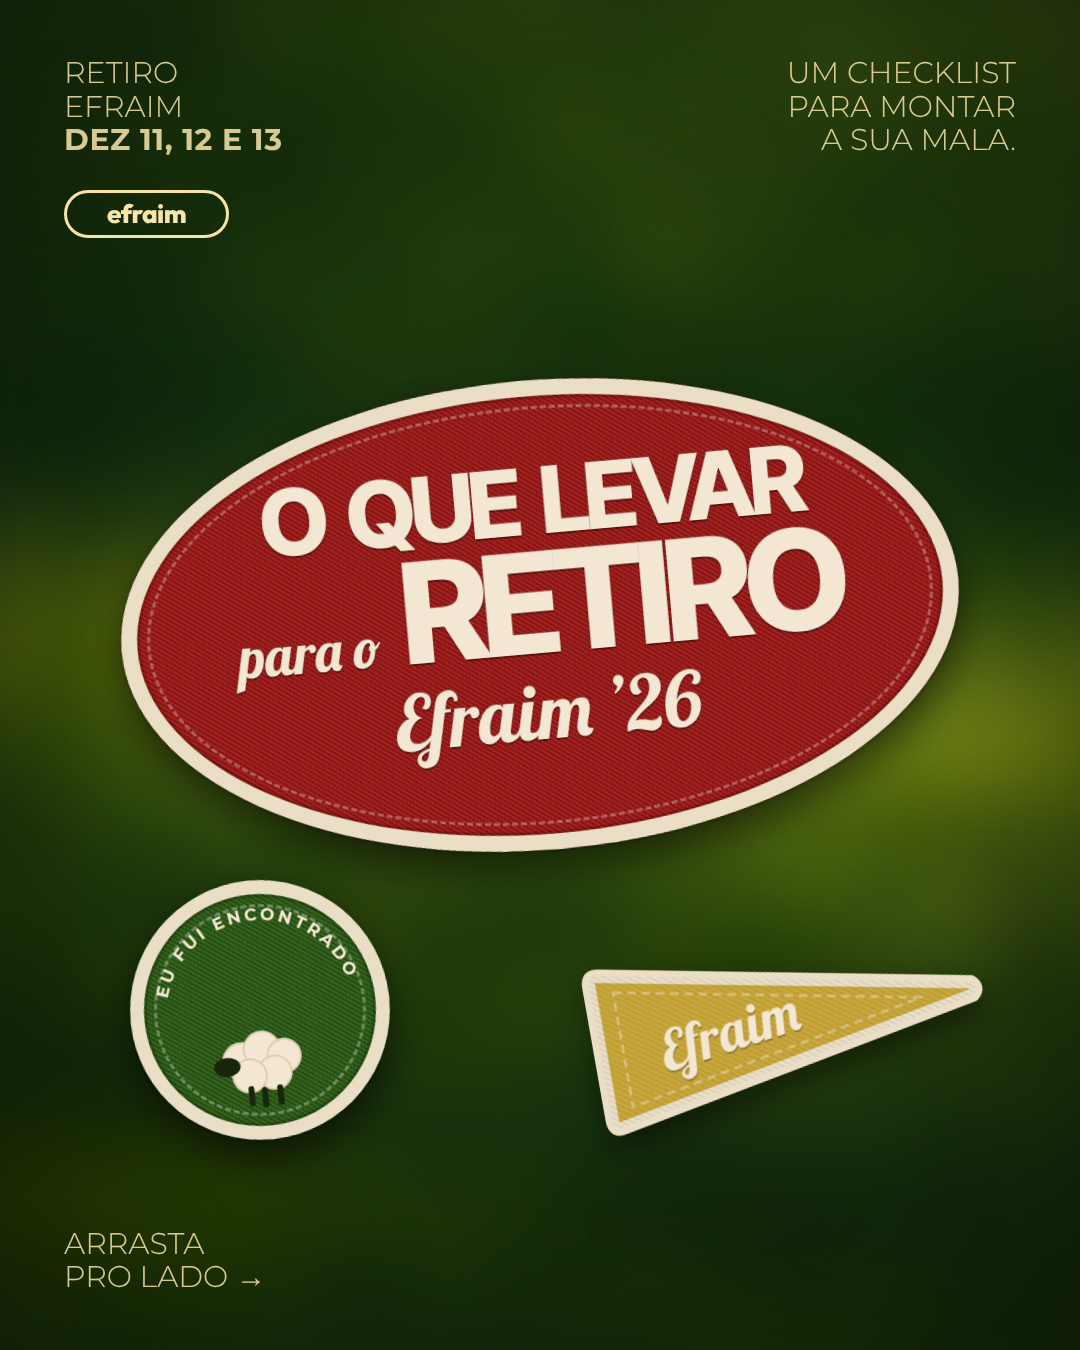
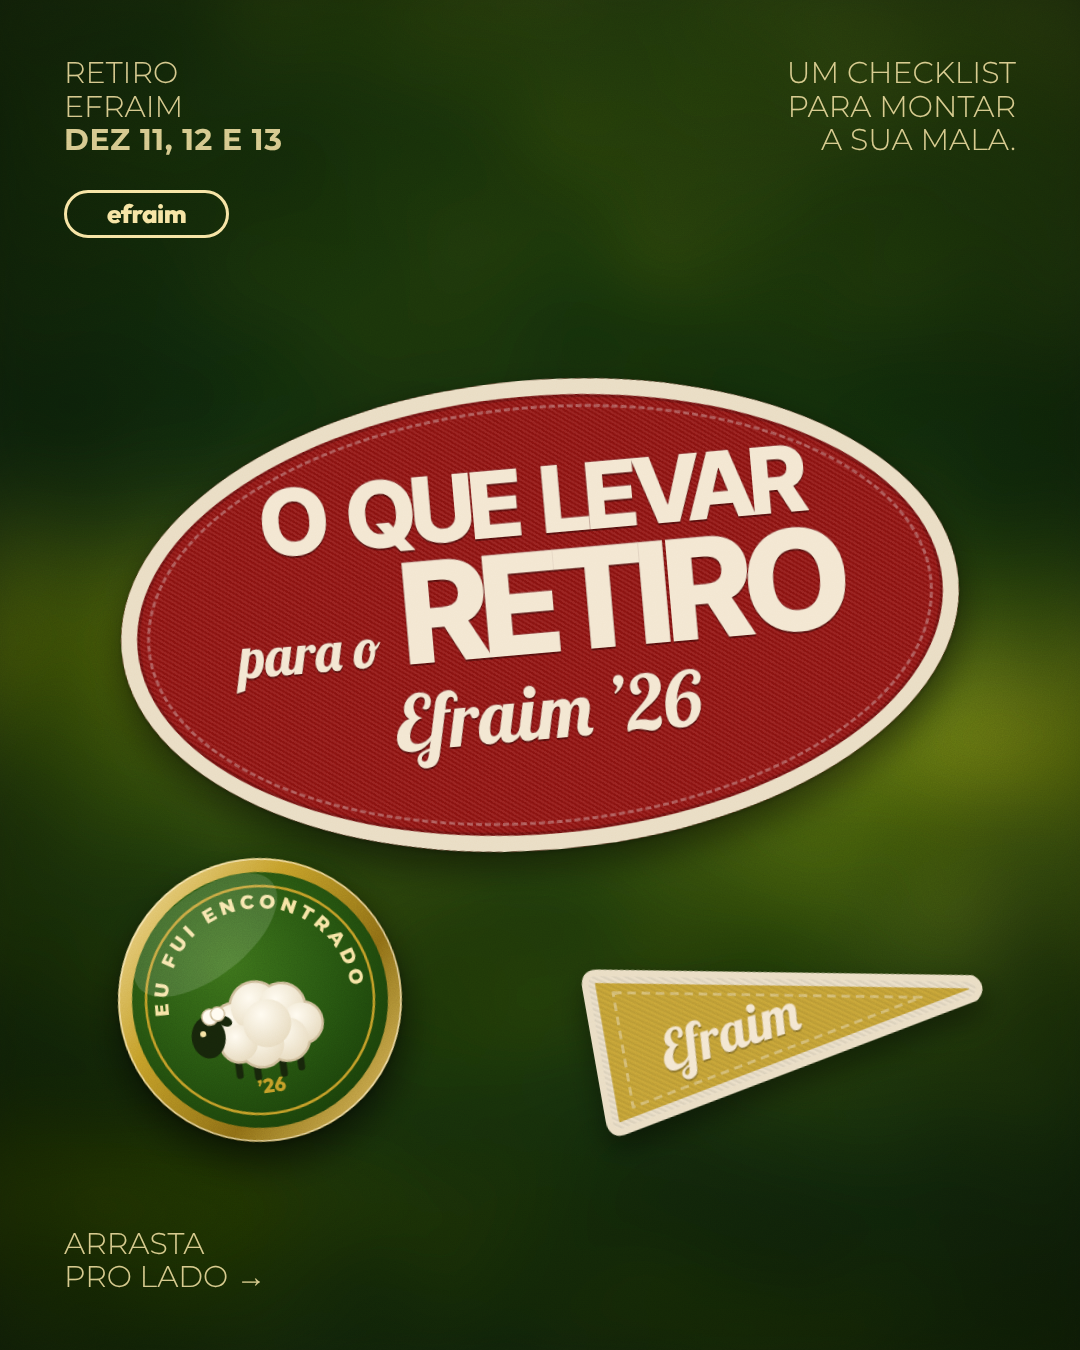
O que levar: broche Eu fui encontrado com ovelha proporcional na capa
Claude-Session: https://claude.ai/code/session_01LeUD47ZwT7dCEC6s1yGkTC

Changed region(s): [[0.0917, 0.6222, 0.3972, 0.8711]]

diff --git a/retiro-efraim/artes/carrossel-o-que-levar/01-capa.html b/retiro-efraim/artes/carrossel-o-que-levar/01-capa.html
@@ -11,11 +11,32 @@
       <span class="lob bord" style="font-size:76px;margin-top:-4px">Efraim ’26</span>
     </div>
   </div>
-  <div class="pt redondo" style="--c:#24500F;left:130px;top:880px;width:260px;height:260px;transform:rotate(-6deg)">
-    <svg viewBox="0 0 260 260" style="position:absolute;inset:0"><defs><path id="arco" d="M36 134 A94 94 0 0 1 224 134"/></defs><text font-family="Montserrat" font-weight="700" font-size="17" letter-spacing="3" fill="#F3E6D0"><textPath href="#arco" startOffset="50%" text-anchor="middle">EU FUI ENCONTRADO</textPath></text></svg>
-    <img src="../../elementos/patch-arco-ovelha.svg" alt="" style="width:0;height:0">
-    <svg viewBox="0 0 100 70" style="width:120px;margin-top:44px"><g fill="#F3E6D0" stroke="#D9C9A8" stroke-width="1.5"><circle cx="30" cy="30" r="15"/><circle cx="48" cy="22" r="15"/><circle cx="66" cy="29" r="14"/><circle cx="57" cy="42" r="14"/><circle cx="36" cy="43" r="14"/></g><path d="M36 54v12M47 56v12M60 55v12" stroke="#16240A" stroke-width="5" stroke-linecap="round"/><ellipse cx="18" cy="34" rx="11" ry="8" fill="#16240A"/></svg>
-  </div>
+  <svg class="abs" viewBox="0 0 300 300" style="left:110px;top:850px;width:300px;transform:rotate(-8deg);filter:drop-shadow(0 18px 18px rgba(0,0,0,.45)) drop-shadow(0 3px 3px rgba(0,0,0,.3))" aria-label="Broche Eu fui encontrado">
+    <defs>
+      <linearGradient id="aro" x1="0" y1="0" x2="1" y2="1"><stop offset="0" stop-color="#F7E3A4"/><stop offset=".35" stop-color="#C29B27"/><stop offset=".65" stop-color="#8A6A14"/><stop offset="1" stop-color="#E8C76A"/></linearGradient>
+      <radialGradient id="esmalte" cx=".4" cy=".35" r=".75"><stop offset="0" stop-color="#3A6E1A"/><stop offset=".6" stop-color="#24500F"/><stop offset="1" stop-color="#173A08"/></radialGradient>
+      <radialGradient id="la" cx=".4" cy=".3" r=".8"><stop offset="0" stop-color="#FFFBF0"/><stop offset="1" stop-color="#E4D6B8"/></radialGradient>
+      <path id="arcoB" d="M58 150 A92 92 0 0 1 242 150"/>
+      <clipPath id="disco"><circle cx="150" cy="150" r="128"/></clipPath>
+    </defs>
+    <circle cx="150" cy="150" r="142" fill="url(#aro)"/>
+    <circle cx="150" cy="150" r="128" fill="url(#esmalte)"/>
+    <circle cx="150" cy="150" r="114" fill="none" stroke="#C29B27" stroke-width="2.5"/>
+    <text font-family="Montserrat" font-weight="800" font-size="19" letter-spacing="4.5" fill="#F6E3A1"><textPath href="#arcoB" startOffset="50%" text-anchor="middle">EU FUI ENCONTRADO</textPath></text>
+    <text x="150" y="243" text-anchor="middle" font-family="Outfit" font-weight="800" font-size="20" fill="#C29B27">’26</text>
+    <g transform="translate(150 170)">
+      <path d="M-30 22v30M-12 26v30M14 26v30M32 22v30" stroke="#16240A" stroke-width="7" stroke-linecap="round"/>
+      <g fill="#CDBB98" stroke="#CDBB98" stroke-width="5"><circle cx="-28" cy="2" r="22"/><circle cx="-6" cy="-14" r="24"/><circle cx="20" cy="-10" r="23"/><circle cx="38" cy="8" r="20"/><circle cx="22" cy="22" r="21"/><circle cx="-4" cy="24" r="22"/><circle cx="-26" cy="20" r="18"/><circle cx="4" cy="4" r="24"/></g>
+      <g fill="url(#la)"><circle cx="-28" cy="2" r="22"/><circle cx="-6" cy="-14" r="24"/><circle cx="20" cy="-10" r="23"/><circle cx="38" cy="8" r="20"/><circle cx="22" cy="22" r="21"/><circle cx="-4" cy="24" r="22"/><circle cx="-26" cy="20" r="18"/><circle cx="4" cy="4" r="24"/></g>
+      <ellipse cx="-50" cy="-2" rx="9" ry="6" fill="#16240A" transform="rotate(-35 -50 -2)"/>
+      <ellipse cx="-56" cy="10" rx="17" ry="21" fill="#16240A"/>
+      <ellipse cx="-38" cy="-4" rx="8" ry="5" fill="#16240A" transform="rotate(30 -38 -4)"/>
+      <circle cx="-61" cy="6" r="3" fill="#F6E3A1"/>
+      <g fill="#FFFBF0" stroke="#CDBB98" stroke-width="1.5"><circle cx="-52" cy="-10" r="8"/><circle cx="-44" cy="-12" r="7"/></g>
+    </g>
+    <g clip-path="url(#disco)"><ellipse cx="105" cy="78" rx="85" ry="42" fill="#fff" opacity=".13" transform="rotate(-30 105 78)"/></g>
+    <circle cx="150" cy="150" r="141" fill="none" stroke="#FFF4CF" stroke-width="1.5" opacity=".7"/>
+  </svg>
   <svg viewBox="0 0 420 190" style="position:absolute;left:590px;top:930px;width:400px;transform:rotate(-10deg);filter:drop-shadow(0 14px 14px rgba(0,0,0,.42))"><path d="M18 14 L404 88 Q412 95 404 102 L18 176 Q8 178 8 166 V24 Q8 12 18 14Z" fill="#C29B27" stroke="#E9DCC2" stroke-width="14" stroke-linejoin="round"/><path d="M18 14 L404 88 Q412 95 404 102 L18 176 Q8 178 8 166 V24 Q8 12 18 14Z" fill="url(#cet)"/><path d="M32 34 L350 95 L32 156Z" fill="none" stroke="rgba(255,255,255,.3)" stroke-width="3" stroke-dasharray="9 6" stroke-linejoin="round"/><text x="70" y="112" transform="rotate(-8 170 95)" font-family="Lobster" font-size="58" fill="#F3E6D0" style="filter:drop-shadow(0 2px 0 rgba(0,0,0,.3))">Efraim</text></svg>
   <div class="cnt" style="left:64px;bottom:56px;font-size:30px">Arrasta<br>pro lado →</div>
 </div>
